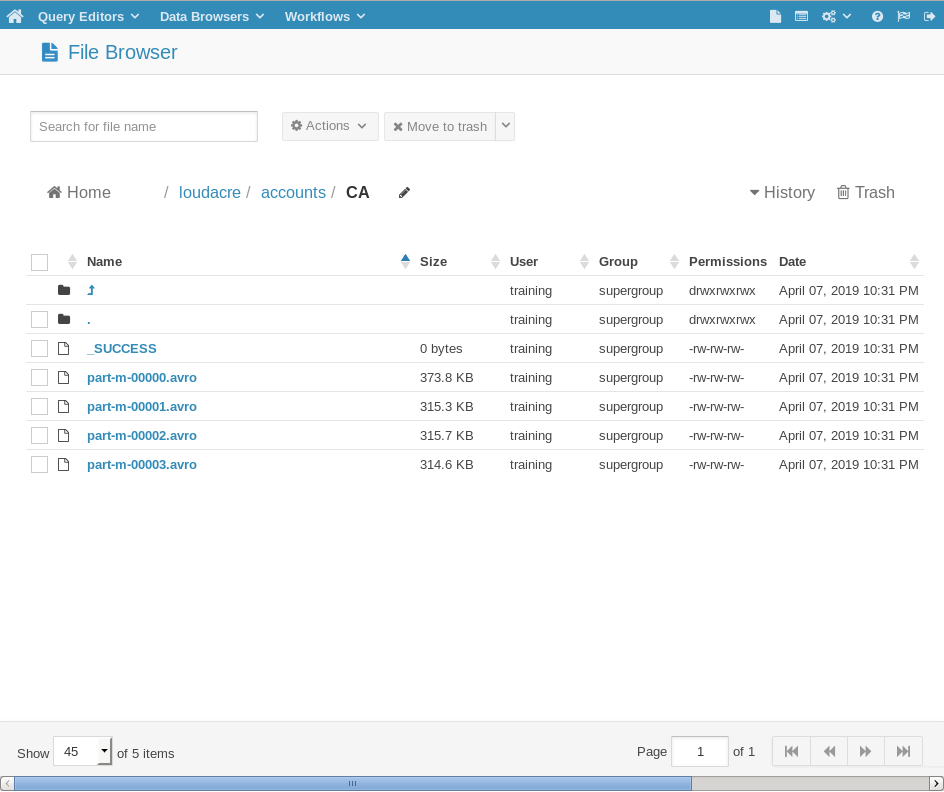
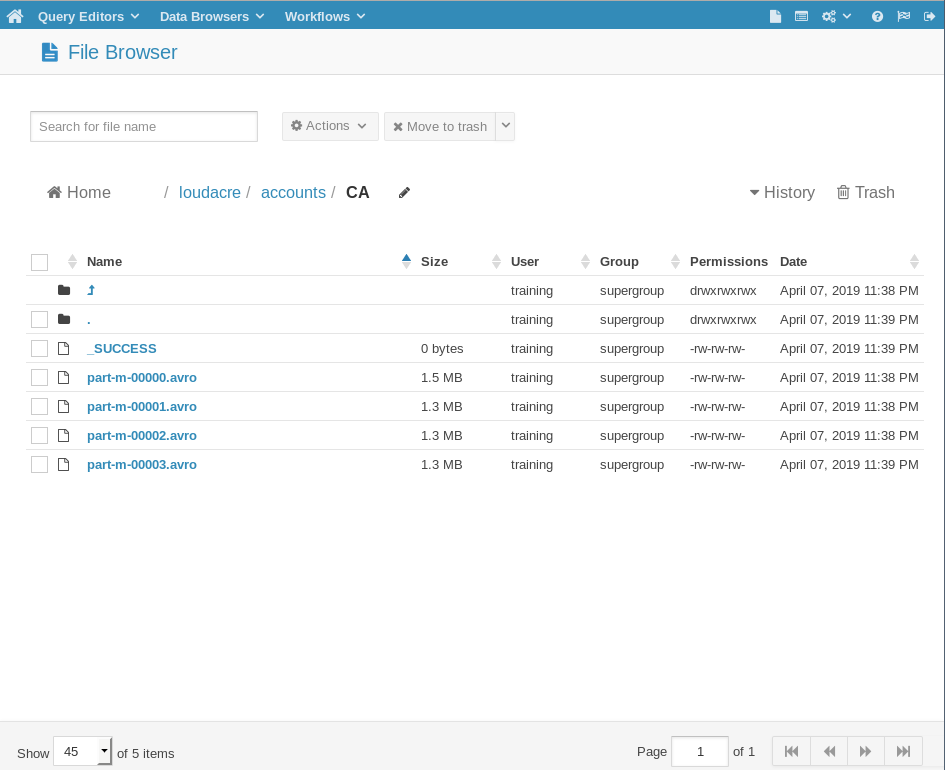
Sqoop README.md modified
Sqoop README.md modified

diff --git a/Sqoop/README.md b/Sqoop/README.md
@@ -207,112 +207,122 @@ Note: Recompile with -Xlint:deprecation for details.
 
   A. Import data to HDFS directory /loudacre/accounts/CA
   ```
-[training@localhost ~]$ sqoop import \
-> --table accounts \
-> --connect jdbc:mysql://localhost/loudacre \
-> --username training --password training \
-> --columns "acct_num,first_name,last_name" \
-> --target-dir /loudacre/accounts/CA \
-> --where "state='CA'" \
-> --compression-codec org.apache.hadoop.io.compress.SnappyCodec \
-> --as-avrodatafile
-19/04/07 22:31:01 INFO sqoop.Sqoop: Running Sqoop version: 1.4.6-cdh5.7.0
-19/04/07 22:31:01 WARN tool.BaseSqoopTool: Setting your password on the command-line is insecure. Consider using -P instead.
-19/04/07 22:31:01 INFO manager.MySQLManager: Preparing to use a MySQL streaming resultset.
-19/04/07 22:31:01 INFO tool.CodeGenTool: Beginning code generation
-19/04/07 22:31:01 INFO manager.SqlManager: Executing SQL statement: SELECT t.* FROM `accounts` AS t LIMIT 1
-19/04/07 22:31:01 INFO manager.SqlManager: Executing SQL statement: SELECT t.* FROM `accounts` AS t LIMIT 1
-19/04/07 22:31:01 INFO orm.CompilationManager: HADOOP_MAPRED_HOME is /usr/lib/hadoop-mapreduce
-Note: /tmp/sqoop-training/compile/7c757628db9aecf6a458a9c1f248d54d/accounts.java uses or overrides a deprecated API.
-Note: Recompile with -Xlint:deprecation for details.
-19/04/07 22:31:03 INFO orm.CompilationManager: Writing jar file: /tmp/sqoop-training/compile/7c757628db9aecf6a458a9c1f248d54d/accounts.jar
-19/04/07 22:31:03 WARN manager.MySQLManager: It looks like you are importing from mysql.
-19/04/07 22:31:03 WARN manager.MySQLManager: This transfer can be faster! Use the --direct
-19/04/07 22:31:03 WARN manager.MySQLManager: option to exercise a MySQL-specific fast path.
-19/04/07 22:31:03 INFO manager.MySQLManager: Setting zero DATETIME behavior to convertToNull (mysql)
-19/04/07 22:31:03 INFO mapreduce.ImportJobBase: Beginning import of accounts
-19/04/07 22:31:03 INFO Configuration.deprecation: mapred.job.tracker is deprecated. Instead, use mapreduce.jobtracker.address
-19/04/07 22:31:04 INFO Configuration.deprecation: mapred.jar is deprecated. Instead, use mapreduce.job.jar
-19/04/07 22:31:05 INFO manager.SqlManager: Executing SQL statement: SELECT t.* FROM `accounts` AS t LIMIT 1
-19/04/07 22:31:05 INFO manager.SqlManager: Executing SQL statement: SELECT t.* FROM `accounts` AS t LIMIT 1
-19/04/07 22:31:05 INFO mapreduce.DataDrivenImportJob: Writing Avro schema file: /tmp/sqoop-training/compile/7c757628db9aecf6a458a9c1f248d54d/accounts.avsc
-19/04/07 22:31:05 INFO Configuration.deprecation: mapred.map.tasks is deprecated. Instead, use mapreduce.job.maps
-19/04/07 22:31:05 INFO client.RMProxy: Connecting to ResourceManager at /0.0.0.0:8032
-19/04/07 22:31:07 INFO db.DBInputFormat: Using read commited transaction isolation
-19/04/07 22:31:07 INFO db.DataDrivenDBInputFormat: BoundingValsQuery: SELECT MIN(`acct_num`), MAX(`acct_num`) FROM `accounts` WHERE ( state='CA' )
-19/04/07 22:31:07 INFO db.IntegerSplitter: Split size: 32439; Num splits: 4 from: 1 to: 129760
-19/04/07 22:31:07 INFO mapreduce.JobSubmitter: number of splits:4
-19/04/07 22:31:07 INFO mapreduce.JobSubmitter: Submitting tokens for job: job_1554697449343_0006
-19/04/07 22:31:07 INFO impl.YarnClientImpl: Submitted application application_1554697449343_0006
-19/04/07 22:31:07 INFO mapreduce.Job: The url to track the job: http://localhost:8088/proxy/application_1554697449343_0006/
-19/04/07 22:31:07 INFO mapreduce.Job: Running job: job_1554697449343_0006
-19/04/07 22:31:15 INFO mapreduce.Job: Job job_1554697449343_0006 running in uber mode : false
-19/04/07 22:31:15 INFO mapreduce.Job:  map 0% reduce 0%
-19/04/07 22:31:22 INFO mapreduce.Job:  map 25% reduce 0%
-19/04/07 22:31:27 INFO mapreduce.Job:  map 50% reduce 0%
-19/04/07 22:31:32 INFO mapreduce.Job:  map 75% reduce 0%
-19/04/07 22:31:39 INFO mapreduce.Job:  map 100% reduce 0%
-19/04/07 22:31:39 INFO mapreduce.Job: Job job_1554697449343_0006 completed successfully
-19/04/07 22:31:39 INFO mapreduce.Job: Counters: 30
-	File System Counters
-		FILE: Number of bytes read=0
-		FILE: Number of bytes written=563556
-		FILE: Number of read operations=0
-		FILE: Number of large read operations=0
-		FILE: Number of write operations=0
-		HDFS: Number of bytes read=470
-		HDFS: Number of bytes written=1350990
-		HDFS: Number of read operations=16
-		HDFS: Number of large read operations=0
-		HDFS: Number of write operations=8
-	Job Counters
-		Launched map tasks=4
-		Other local map tasks=4
-		Total time spent by all maps in occupied slots (ms)=0
-		Total time spent by all reduces in occupied slots (ms)=0
-		Total time spent by all map tasks (ms)=18759
-		Total vcore-seconds taken by all map tasks=18759
-		Total megabyte-seconds taken by all map tasks=4802304
-	Map-Reduce Framework
-		Map input records=92416
-		Map output records=92416
-		Input split bytes=470
-		Spilled Records=0
-		Failed Shuffles=0
-		Merged Map outputs=0
-		GC time elapsed (ms)=281
-		CPU time spent (ms)=6770
-		Physical memory (bytes) snapshot=587702272
-		Virtual memory (bytes) snapshot=8286044160
-		Total committed heap usage (bytes)=251920384
-	File Input Format Counters
-		Bytes Read=0
-	File Output Format Counters
-		Bytes Written=1350990
-19/04/07 22:31:39 INFO mapreduce.ImportJobBase: Transferred 1.2884 MB in 34.3251 seconds (38.4362 KB/sec)
-19/04/07 22:31:39 INFO mapreduce.ImportJobBase: Retrieved 92416 records.
+  [training@localhost ~]$ sqoop import \
+  > --table accounts \
+  > --connect jdbc:mysql://localhost/loudacre \
+  > --username training --password training \
+  > --target-dir /loudacre/accounts/CA \
+  > --where "state='CA'" \
+  > --compression-codec org.apache.hadoop.io.compress.SnappyCodec \
+  > --as-avrodatafile
+
+  19/04/07 23:38:23 INFO sqoop.Sqoop: Running Sqoop version: 1.4.6-cdh5.7.0
+  19/04/07 23:38:23 WARN tool.BaseSqoopTool: Setting your password on the command-line is insecure. Consider using -P instead.
+  19/04/07 23:38:23 INFO manager.MySQLManager: Preparing to use a MySQL streaming resultset.
+  19/04/07 23:38:23 INFO tool.CodeGenTool: Beginning code generation
+  19/04/07 23:38:24 INFO manager.SqlManager: Executing SQL statement: SELECT t.* FROM `accounts` AS t LIMIT 1
+  19/04/07 23:38:24 INFO manager.SqlManager: Executing SQL statement: SELECT t.* FROM `accounts` AS t LIMIT 1
+  19/04/07 23:38:24 INFO orm.CompilationManager: HADOOP_MAPRED_HOME is /usr/lib/hadoop-mapreduce
+  Note: /tmp/sqoop-training/compile/ca934139f389cfc7424880b37d582b62/accounts.java uses or overrides a deprecated API.
+  Note: Recompile with -Xlint:deprecation for details.
+  19/04/07 23:38:27 INFO orm.CompilationManager: Writing jar file: /tmp/sqoop-training/compile/ca934139f389cfc7424880b37d582b62/accounts.jar
+  19/04/07 23:38:27 WARN manager.MySQLManager: It looks like you are importing from mysql.
+  19/04/07 23:38:27 WARN manager.MySQLManager: This transfer can be faster! Use the --direct
+  19/04/07 23:38:27 WARN manager.MySQLManager: option to exercise a MySQL-specific fast path.
+  19/04/07 23:38:27 INFO manager.MySQLManager: Setting zero DATETIME behavior to convertToNull (mysql)
+  19/04/07 23:38:27 INFO mapreduce.ImportJobBase: Beginning import of accounts
+  19/04/07 23:38:27 INFO Configuration.deprecation: mapred.job.tracker is deprecated. Instead, use mapreduce.jobtracker.address
+  19/04/07 23:38:27 INFO Configuration.deprecation: mapred.jar is deprecated. Instead, use mapreduce.job.jar
+  19/04/07 23:38:28 INFO manager.SqlManager: Executing SQL statement: SELECT t.* FROM `accounts` AS t LIMIT 1
+  19/04/07 23:38:28 INFO manager.SqlManager: Executing SQL statement: SELECT t.* FROM `accounts` AS t LIMIT 1
+  19/04/07 23:38:28 INFO mapreduce.DataDrivenImportJob: Writing Avro schema file: /tmp/sqoop-training/compile/ca934139f389cfc7424880b37d582b62/accounts.avsc
+  19/04/07 23:38:28 INFO Configuration.deprecation: mapred.map.tasks is deprecated. Instead, use mapreduce.job.maps
+  19/04/07 23:38:28 INFO client.RMProxy: Connecting to ResourceManager at /0.0.0.0:8032
+  19/04/07 23:38:30 INFO db.DBInputFormat: Using read commited transaction isolation
+  19/04/07 23:38:30 INFO db.DataDrivenDBInputFormat: BoundingValsQuery: SELECT MIN(`acct_num`), MAX(`acct_num`) FROM `accounts` WHERE ( state='CA' )
+  19/04/07 23:38:30 INFO db.IntegerSplitter: Split size: 32439; Num splits: 4 from: 1 to: 129760
+  19/04/07 23:38:30 INFO mapreduce.JobSubmitter: number of splits:4
+  19/04/07 23:38:31 INFO mapreduce.JobSubmitter: Submitting tokens for job: job_1554697449343_0007
+  19/04/07 23:38:31 INFO impl.YarnClientImpl: Submitted application application_1554697449343_0007
+  19/04/07 23:38:31 INFO mapreduce.Job: The url to track the job: http://localhost:8088/proxy/application_1554697449343_0007/
+  19/04/07 23:38:31 INFO mapreduce.Job: Running job: job_1554697449343_0007
+  19/04/07 23:38:39 INFO mapreduce.Job: Job job_1554697449343_0007 running in uber mode : false
+  19/04/07 23:38:39 INFO mapreduce.Job:  map 0% reduce 0%
+  19/04/07 23:38:48 INFO mapreduce.Job:  map 25% reduce 0%
+  19/04/07 23:38:55 INFO mapreduce.Job:  map 50% reduce 0%
+  19/04/07 23:39:02 INFO mapreduce.Job:  map 75% reduce 0%
+  19/04/07 23:39:09 INFO mapreduce.Job:  map 100% reduce 0%
+  19/04/07 23:39:09 INFO mapreduce.Job: Job job_1554697449343_0007 completed successfully
+  19/04/07 23:39:09 INFO mapreduce.Job: Counters: 30
+  	File System Counters
+  		FILE: Number of bytes read=0
+  		FILE: Number of bytes written=566924
+  		FILE: Number of read operations=0
+  		FILE: Number of large read operations=0
+  		FILE: Number of write operations=0
+  		HDFS: Number of bytes read=470
+  		HDFS: Number of bytes written=5669076
+  		HDFS: Number of read operations=16
+  		HDFS: Number of large read operations=0
+  		HDFS: Number of write operations=8
+  	Job Counters
+  		Launched map tasks=4
+  		Other local map tasks=4
+  		Total time spent by all maps in occupied slots (ms)=0
+  		Total time spent by all reduces in occupied slots (ms)=0
+  		Total time spent by all map tasks (ms)=22931
+  		Total vcore-seconds taken by all map tasks=22931
+  		Total megabyte-seconds taken by all map tasks=5870336
+  	Map-Reduce Framework
+  		Map input records=92416
+  		Map output records=92416
+  		Input split bytes=470
+  		Spilled Records=0
+  		Failed Shuffles=0
+  		Merged Map outputs=0
+  		GC time elapsed (ms)=409
+  		CPU time spent (ms)=10920
+  		Physical memory (bytes) snapshot=606470144
+  		Virtual memory (bytes) snapshot=8283291648
+  		Total committed heap usage (bytes)=251920384
+  	File Input Format Counters
+  		Bytes Read=0
+  	File Output Format Counters
+  		Bytes Written=5669076
+  19/04/07 23:39:09 INFO mapreduce.ImportJobBase: Transferred 5.4065 MB in 40.7503 seconds (135.8569 KB/sec)
+  19/04/07 23:39:09 INFO mapreduce.ImportJobBase: Retrieved 92416 records.
   ```
 
   B. Display imported data by avro-tools.
   ```
-[training@localhost ~]$ avro-tools tojson hdfs://localhost/loudacre/accounts/CA/part-m-00000.avro | more
-log4j:WARN No appenders could be found for logger (org.apache.hadoop.metrics2.lib.MutableMetricsFactory).
-log4j:WARN Please initialize the log4j system properly.
-log4j:WARN See http://logging.apache.org/log4j/1.2/faq.html#noconfig for more info.
-{"acct_num":{"int":1},"first_name":{"string":"Donald"},"last_name":{"string":"Becton"}}
-{"acct_num":{"int":2},"first_name":{"string":"Donna"},"last_name":{"string":"Jones"}}
-{"acct_num":{"int":3},"first_name":{"string":"Dorthy"},"last_name":{"string":"Chalmers"}}
-{"acct_num":{"int":4},"first_name":{"string":"Leila"},"last_name":{"string":"Spencer"}}
-{"acct_num":{"int":5},"first_name":{"string":"Anita"},"last_name":{"string":"Laughlin"}}
-{"acct_num":{"int":6},"first_name":{"string":"Stevie"},"last_name":{"string":"Bridge"}}
-{"acct_num":{"int":7},"first_name":{"string":"David"},"last_name":{"string":"Eggers"}}
-{"acct_num":{"int":8},"first_name":{"string":"Dorothy"},"last_name":{"string":"Koopman"}}
-{"acct_num":{"int":9},"first_name":{"string":"Kara"},"last_name":{"string":"Kohl"}}
-{"acct_num":{"int":10},"first_name":{"string":"Diane"},"last_name":{"string":"Nelson"}}
-{"acct_num":{"int":11},"first_name":{"string":"Robert"},"last_name":{"string":"Fisher"}}
-{"acct_num":{"int":12},"first_name":{"string":"Marcia"},"last_name":{"string":"Roberts"}}
-{"acct_num":{"int":13},"first_name":{"string":"Andres"},"last_name":{"string":"Cruse"}}
-{"acct_num":{"int":14},"first_name":{"string":"Ann"},"last_name":{"string":"Moore"}}
+  [training@localhost ~]$ avro-tools tojson hdfs://localhost/loudacre/accounts/CA/part-m-00000.avro | more
+  log4j:WARN No appenders could be found for logger (org.apache.hadoop.metrics2.lib.MutableMetricsFactory).
+  log4j:WARN Please initialize the log4j system properly.
+  log4j:WARN See http://logging.apache.org/log4j/1.2/faq.html#noconfig for more info.
+  {"acct_num":{"int":1},"acct_create_dt":{"long":1224803105000},"acct_close_dt":null,"first_name":{"string":"Donald"}
+  ,"last_name":{"string":"Becton"},"address":{"string":"2275 Washburn Street"},"city":{"string":"Oakland"},"state":{"
+  string":"CA"},"zipcode":{"string":"94660"},"phone_number":{"string":"5100032418"},"created":{"long":1395174587000},
+  "modified":{"long":1395174587000}}
+  {"acct_num":{"int":2},"acct_create_dt":{"long":1226487601000},"acct_close_dt":null,"first_name":{"string":"Donna"},
+  "last_name":{"string":"Jones"},"address":{"string":"3885 Elliott Street"},"city":{"string":"San Francisco"},"state"
+  :{"string":"CA"},"zipcode":{"string":"94171"},"phone_number":{"string":"4150835799"},"created":{"long":139517458700
+  0},"modified":{"long":1395174587000}}
+  {"acct_num":{"int":3},"acct_create_dt":{"long":1229879990000},"acct_close_dt":null,"first_name":{"string":"Dorthy"}
+  ,"last_name":{"string":"Chalmers"},"address":{"string":"4073 Whaley Lane"},"city":{"string":"San Mateo"},"state":{"
+  string":"CA"},"zipcode":{"string":"94479"},"phone_number":{"string":"6506877757"},"created":{"long":1395174587000},
+  "modified":{"long":1395174587000}}
+  {"acct_num":{"int":4},"acct_create_dt":{"long":1227859689000},"acct_close_dt":null,"first_name":{"string":"Leila"},
+  "last_name":{"string":"Spencer"},"address":{"string":"1447 Ross Street"},"city":{"string":"San Mateo"},"state":{"st
+  ring":"CA"},"zipcode":{"string":"94444"},"phone_number":{"string":"6503198619"},"created":{"long":1395174587000},"m
+  odified":{"long":1395174587000}}
+  {"acct_num":{"int":5},"acct_create_dt":{"long":1226819166000},"acct_close_dt":null,"first_name":{"string":"Anita"},
+  "last_name":{"string":"Laughlin"},"address":{"string":"2767 Hill Street"},"city":{"string":"Richmond"},"state":{"st
+  ring":"CA"},"zipcode":{"string":"94872"},"phone_number":{"string":"5107754354"},"created":{"long":1395174587000},"m
+  odified":{"long":1395174587000}}
+  {"acct_num":{"int":6},"acct_create_dt":{"long":1227213573000},"acct_close_dt":{"long":1393688268000},"first_name":{
+  "string":"Stevie"},"last_name":{"string":"Bridge"},"address":{"string":"3977 Linda Street"},"city":{"string":"Sacra
+  mento"},"state":{"string":"CA"},"zipcode":{"string":"94264"},"phone_number":{"string":"9162111862"},"created":{"lon
+  g":1395174587000},"modified":{"long":1395174587000}}
   ```
   ![Image of Sqoop Exercise 2 - Terminal Logs](CA_only.png)
   ![Image of Sqoop Exercise 2 - File Browser in HUE](CA_only_from_HUE.png)
